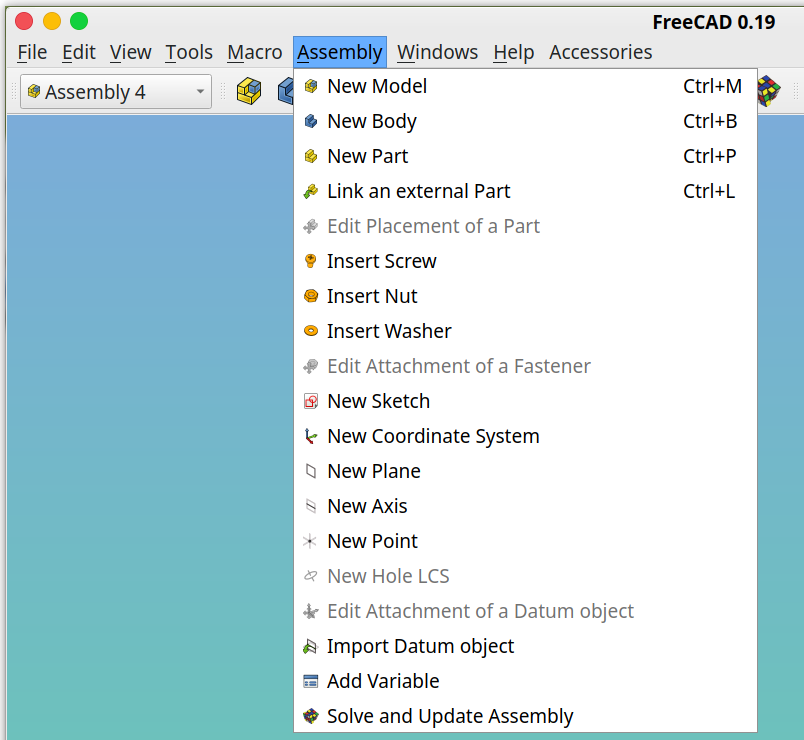
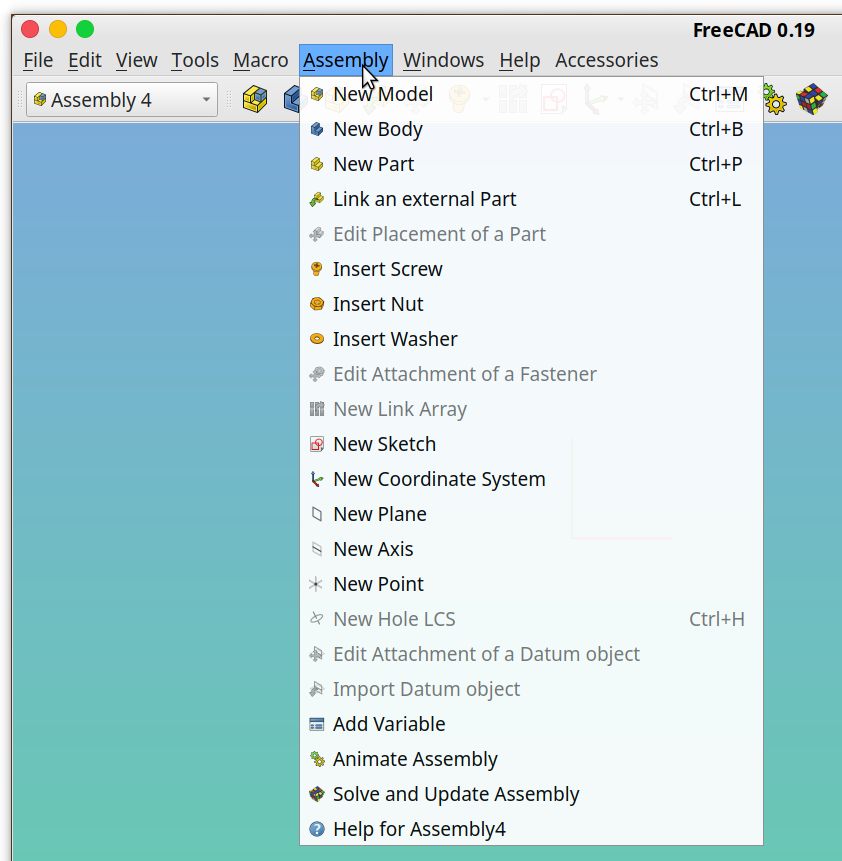
Documentation update

Changed region(s): [[0.0, 0.0, 1.0, 1.0]]

diff --git a/InitGui.py b/InitGui.py
@@ -92,19 +92,22 @@ class Assembly4_WorkBench(Workbench):
         import newLinkArray        # creates a new array of App::Link
         import HelpCmd             # shows a basic help window
         
-        if self.checkWorkbench('FastenersWorkbench'):
-            import FastenersLib        # a library to handle fasteners from the FastenersWorkbench
-            fastenersCmd = 'Asm4_Fasteners'
-        else:
-            import FastenersDummy      # a dummy library if the FastenersWorkbench is not installed
-            fastenersCmd = 'Asm4_insertScrew'
-
-        
+        # defines the drop-down button for Fasteners:
         insertFastenerList = [  'Asm4_insertScrew', 
                                 'Asm4_insertNut', 
                                 'Asm4_insertWasher', 
                                 'Asm4_placeFastener' ]
         Gui.addCommand( 'Asm4_Fasteners', dropDownCmdGroup( insertFastenerList, 'Insert Fastener'))
+        # check whether the Fasteners workbench is installed
+        if self.checkWorkbench('FastenersWorkbench'):
+            # a library to handle fasteners from the FastenersWorkbench
+            import FastenersLib
+            fastenersCmd = 'Asm4_Fasteners'
+        else:
+            # a dummy library if the FastenersWorkbench is not installed
+            import FastenersDummy
+            fastenersCmd = 'Asm4_insertScrew'
+
         # defines the drop-down button for Datum objects
         createDatumList = [     'Asm4_newLCS', 
                                 'Asm4_newPlane', 
@@ -112,6 +115,7 @@ class Assembly4_WorkBench(Workbench):
                                 'Asm4_newPoint', 
                                 'Asm4_newHole' ]
         Gui.addCommand( 'Asm4_createDatum', dropDownCmdGroup( createDatumList, 'Create Datum Object'))
+
         # list of all commands (use ?)
         self.listCmd =        [ "Asm4_newModel",   
                                 "Asm4_newBody", 
@@ -147,9 +151,9 @@ class Assembly4_WorkBench(Workbench):
                                 "Asm4_importDatum", 
                                 "Asm4_addVariable", 
                                 "Asm4_Animate", 
-                                "Asm4_updateAssembly",
-                                "Asm4_Help"]
+                                "Asm4_updateAssembly"]
         self.appendMenu("&Assembly",self.itemsMenu)
+        # append the Asm4_Help command to the standard FreeCAD Help menu
         self.appendMenu("&Help", ["Asm4_Help"])
         # commands to appear in the Assembly4 toolbar
         self.itemsToolbar =   [ "Asm4_newModel",   
@@ -189,7 +193,6 @@ class Assembly4_WorkBench(Workbench):
         #self.appendMenu(["&Edit","DynamicData"],self.list) # appends a submenu to an existing menu
 
 
-
     """
     +-----------------------------------------------+
     |               helper functions                |
@@ -205,13 +208,13 @@ class Assembly4_WorkBench(Workbench):
         return hasWB
 
 
-
     """
     +-----------------------------------------------+
     |          Standard necessary functions         |
     +-----------------------------------------------+
     """
     def Activated(self):
+        """
         from PySide import QtGui, QtCore
         "This function is executed when the workbench is activated"
         # Set the drop-down button for the Configurations in text mode 
@@ -224,6 +227,7 @@ class Assembly4_WorkBench(Workbench):
                 for button in toolbar.children():
                     if button.isWidgetType() and button.text()=='Configurations':
                         button.setToolButtonStyle( QtCore.Qt.ToolButtonTextOnly )
+        """
         return
 
 
@@ -251,7 +255,6 @@ class Assembly4_WorkBench(Workbench):
     +-----------------------------------------------+
 """
 wb = Assembly4_WorkBench()
-#print("Loading Assembly 4 WorkBench. \xa9 Zoltan Hubert")
 Gui.addWorkbench(wb)
 
 

diff --git a/INSTRUCTIONS.md b/INSTRUCTIONS.md
@@ -58,56 +58,56 @@ All Assembly4 children have these 4 properties; these are the first places to ch
 
 ## Usage
 
-Assembly4 commands are accessible from the Assembly meny or the Assembly4 toolbar.
-
-### Menu
-
-Commands in the menu and the toolbar are activated with relevant selection. If a command you want to use is inactive try to change the selection (with the mouse).
-
-![](Resources/media/Asm4_Menu.png)
+Assembly4 commands are accessible from the Assembly menu or the Assembly4 toolbar.
 
 
 ### Toolbar
 
-These functions are also accessible with the Assembly toolbar:
-
+Commands are activated with relevant selection. If a command is inactive (grayed oit) it's because something is selected to which that function doesn't apply.
 
 ![](Resources/media/Asm4_Toolbar.png)
 
+### Menu
 
-* ![](Resources/icons/Asm4_Model.svg) : **New Model** : creates an Assembly4 Model, which is a FreeCAD App::Part called Model and with some extra additions. One document can only contain one Assembly4 Model.
+These functions are also accessible from the Assembly menu:
 
-* ![](Resources/icons/Asm4_Body.svg) : **New Body** : creates FreeCAD PartDesign::Body in an Assembly4 Model or in an App::Part. This Body can then be used with FreeCAD's PartDesign workbench.
+![](Resources/media/Asm4_Menu.png)
 
-* ![](Resources/icons/Asm4_Part.svg) : **New Part** : creates FreeCAD App::Part in the current document. A document can contain many parts.
+### Assembly4 commands
 
-* ![](Resources/icons/Link_Part.svg) : **Insert an External Part** : creates a FreeCAD App::Link to an App::Part in another document. Only parts from documents already saved to disk can be used. If there are multiple parts in a document, they can be selected individually. A part can be inserted (linked) many times, but each instance must have a unique name in the assembly tree. If a name already attribuated is given again, FreeCAD will automatically give it a unique (and probably un-user-friendly) name.
+* ![](Resources/icons/Asm4_Model.svg) : **New Model** : creates an Assembly4 *Model*, which is a FreeCAD `App::Part` called *Model* and with some extra additions. This can be used to design a stand-alone part or be the container for an assembly. One document can only contain one Assembly4 Model.
 
-* ![](Resources/icons/Place_Link.svg) : **Place Link** : this places a linked part in the assembly to its intended position. This attaches an LCS in the linked part to another LCS in the assembly (called target LCS). This target LCS can be either in the assembly itself (in the Model) or in a sister part already linked. In this case, only LCS at the root of the linked part can be used, and not LCS inside a Body (for example) in the linked part.
+* ![](Resources/icons/Asm4_Body.svg) : **New Body** : creates FreeCAD `PartDesign::Body` in the selected `App::Part`. This Body can then be used with FreeCAD's PartDesign workbench. If you create such a `PartDesign::Body` with the PartDesign workbench, it will be placed at the root of the document, outside any `App::Part`.
 
-* ![](Resources/icons/Asm4_Screw.svg) : **Fasteners dropdown** : Allows to insert screws, nuts and washers from the Fasteners Workbench, and allows to attach them to Assembly4 datum objects, primarily coordinate systems (LCS). If the Fasteners Workbench is not installed, these features are disabled. To install the Fasteners Workbench, go to the menu **Tools > Addon Manager > fateners**
+* ![](Resources/icons/Asm4_Part.svg) : **New Part** : creates FreeCAD `App::Part` in the current document and allows to give it a name. A document can contain many parts.
 
-    * ![](Resources/icons/Asm4_Screw.svg) : **Insert Screw** : creates a normed screw from the Fasteners Workbench. The type of screw, diameter and length can be changed in the properties window of the screw.
+* ![](Resources/icons/Link_Part.svg) : **Link to a Part** : creates a FreeCAD `App::Link` to an `App::Part`. Only parts from documents already open in the session and saved to disk can be used. If there are multiple parts in a document, they can be selected individually. A part can be inserted (linked) many times, but each instance must have a unique name in the assembly tree. If a name already attribuated is given again, FreeCAD will automatically give it a unique (and probably un-user-friendly) name.
 
-    * ![](Resources/icons/Asm4_Nut.svg) : **Insert Nut** : creates a normed nut from the Fasteners Workbench. The type of nut, diameter and length can be changed in the properties window of the nut.
+* ![](Resources/icons/Place_Link.svg) : **Place Link** : this positions the child instance of a linked part in the current host assembly. This attaches an LCS in the linked part to a target LCS in the assembly. This target LCS can be either in the assembly itself (in the *Model*) or in a sister part already linked. In this case, it is important to note that only LCS at the root of the linked part can be used.
 
-    * ![](Resources/icons/Asm4_Washer.svg) : **Insert Washer** : creates a normed washer from the Fasteners Workbench. The type of washer and its diameter can be changed in the properties window of the washer.
+* ![](Resources/icons/Asm4_Screw.svg) : **Fasteners dropdown** : Allows to insert industry standard screws, nuts and washers from the **Fasteners Workbench** library, and allows to attach them to Assembly4 datum objects, primarily coordinate systems (LCS). These features are only available if the the Fasteners Workbench is installed. The Fasteners Workbench can be installed like Assembly4 through FreeCAD's addon manager: menu **Tools > Addon Manager > fasteners**
+
+    * ![](Resources/icons/Asm4_Screw.svg) : **Insert Screw** : creates a normed screw from the Fasteners Workbench. The type of screw, diameter and length can be changed in the properties window of the screw after creation.
+
+    * ![](Resources/icons/Asm4_Nut.svg) : **Insert Nut** : creates a normed nut from the Fasteners Workbench. The type of nut, diameter and length can be changed in the properties window of the nut after creation.
+
+    * ![](Resources/icons/Asm4_Washer.svg) : **Insert Washer** : creates a normed washer from the Fasteners Workbench. The type of washer and its diameter can be changed in the properties window of the washer after creation.
 
     * ![](Resources/icons/Asm4_mvFastener.svg) : **Edit attachment of Fastener** : allows to attach an object from the Fasteners Workbench — screw, nut or washer — to a datum object in the assembly or a sister part, in the regular Assembly4 manner.
 
-* ![](Resources/icons/Asm4_Sketch.svg) : **New Sketch** : creates FreeCAD Sketch in an App::Part (and thus also in Assembly4 Models). This Sketch is unattached, to attach it to an object edit its MapMode in its Placement Property
+* ![](Resources/icons/Asm4_Sketch.svg) : **New Sketch** : creates FreeCAD Sketch in an `App::Part` (and thus also in Assembly4 Models). After creation the attachment dialog opens and allows to attach this Sketch.
 
 * ![](Resources/icons/Asm4_AxisCross.svg) : **New Datum** : this is a drop-down combined menu grouping the creation of all Datum objects:
 
-	* ![](Resources/icons/Asm4_AxisCross.svg) : **New LCS** : creates FreeCAD PartDesign::CoordinateSystem in an App::Part (and thus also in Assembly4 Models). This LCS is unattached, to attach it to an object edit its MapMode in its Placement Property
+	* ![](Resources/icons/Asm4_AxisCross.svg) : **New LCS** : creates `PartDesign::CoordinateSystem` in an `App::Part` (and thus also in Assembly4 Models). This LCS is unattached, to attach it to an object edit its MapMode in its Placement Property
 
-	* ![](Resources/icons/Asm4_Plane.svg) : **New Datum Plane** : creates FreeCAD PartDesign::Plane
+	* ![](Resources/icons/Asm4_Plane.svg) : **New Datum Plane** : creates a datum `PartDesign::Plane`
 
-	* ![](Resources/icons/Asm4_Axis.svg) : **New Datum Axis** : creates FreeCAD PartDesign::Line
+	* ![](Resources/icons/Asm4_Axis.svg) : **New Datum Axis** : creates a datum `PartDesign::Line`
 
-	* ![](Resources/icons/Asm4_Point.svg) : **New Datum Point** : creates FreeCAD PartDesign::Point
+	* ![](Resources/icons/Asm4_Point.svg) : **New Datum Point** : creates a datum `PartDesign::Point`
 
-	* ![](Resources/icons/Asm4_Hole.svg) : **New Hole LCS** : creates FreeCAD PartDesign::CoordinateSystem in an App::Part (and thus also in Assembly4 Models) at the center of te selected circular edge. This is therefore only active when a (single) circular edge is selected. This PartDesign::CoordinateSystem is attached to the center of the circle, and is intended to serve as attachment LCS for fasteners.  This is the combined function of creating an LCS and attaching it (via MapMode) to a circular edge, and is provided to streamline the workflow.
+	* ![](Resources/icons/Asm4_Hole.svg) : **New Hole LCS** : creates datum `PartDesign::CoordinateSystem` in an `App::Part` (and thus also in Assembly4 Models) at the center of te selected circular edge. This is therefore only active when a (single) circular edge is selected. This `PartDesign::CoordinateSystem` is attached to the center of the circle, and is intended to serve as attachment LCS for fasteners.  This is the combined function of creating an LCS and attaching it (via MapMode) to a circular edge, and is provided to streamline the workflow.
 
 * ![](Resources/icons/Place_Datum.svg) : **Place Datum** : this attaches an existing Datum object in the assembly to another existing Datum object in a linked part. Datum objects of different types can be attached. 
 
@@ -115,11 +115,18 @@ These functions are also accessible with the Assembly toolbar:
 
 * ![](Resources/icons/Asm4_Variables.svg) : **Add Variable** : this adds a variable to the `Variables` object in the Model. These variables can be used in any parameter of the document by entering `Variables.Height` or `Variables.Length` (for example). This is especially useful for assemblies built in a single file, where several parts can be built using the same dimensions. Modifying a variable is done in the `Properties` window of the `Variables` object.
 
-* ![](Resources/icons/Solver.svg) : **Solve constraints and update assembly** : this recomputes all the links and all the placements in the assembly
+* ![](Resources/icons/Asm4_GearsAnimate.svg) : **Animate Assembly** : allows to select one of the variables from the `Variables` object and sweep it between two values. All parameters of the assembly that are set by this variable will be updated. 
+
+* ![](Resources/icons/Asm4_Solver.svg) : **Solve constraints and update assembly** : this recomputes all the links and all the placements in the assembly
 
 
 
 ## Workflow
+
+Some general purpose 3D CAD systems propose a workflow based on finished parts that are assembled into an assembly, and their position in that assembly is determined by constraints imposed on geometrical features present in the parts: holes, edges, faces... While this is quite easy to understand for beginners, it poses some limits on advanced users who need to modify the parts that are already inserted into an assembly. For example, if a part is placed using some geometrical feature, and that feature is later modified during the design process, the assembly solver might not be able to find the original constraint because the geometrical feature on which it was based has disappeared, and will throw an error. This can be a very difficult problem to solve, and is due to the dreaded *topological naming* issue. 
+
+Therefore, this is not the workflow used in Assembly 4, and instead Assembly 4 uses the principle of a **master sketch** : at the root of the assembly, *i.e.* in the Assembly 4 *Model*, one — or more — sketches are drawn that represent the "skeleton" of the assembly. This skeleton matches the functionalities of the assembly, and holds elements such as points and lines at characteristical positions of the assembly: rotational axes, fixation points, translation axes, beam directions... Furthermore, local coordinate systems — technically these are `PartDesign::CoordinateSystem` type objects and are called **LCS** in Assembly 4 — are placed on these characteristical points. The same principle — local coordinate systems are created in characteristical locations — is also applied in the design process of parts. Thus, the local coordinate systems in the parts can be matched to local coordinate systems in the assembly, guaranteeing that the part is positioned in the assembly at its intended position.
+
 
 
 ### Part

diff --git a/Examples/Tutorial1/TUTORIAL1.md b/Examples/Tutorial1/TUTORIAL1.md
@@ -12,7 +12,7 @@ This tutorial will walk you through to build the following assembly:
 
 ### Prerequisites
 
-It is assumed that you have read the [Assembly4 instructions](https://github.com/Zolko-123/FreeCAD_Assembly4/blob/master/INSTRUCTIONS.md) and that the Assembly4 workbench has been previously installed. It is also assumed that you have basic knowledge of FreeCAD, especially the _PartDesign_ workbench.
+It is assumed that you have read the [Assembly4 instructions](../../INSTRUCTIONS.md) and that the Assembly4 workbench has been previously installed. It is also assumed that you have basic knowledge of FreeCAD, especially the _PartDesign_ workbench.
 
 Download the STEP file [`bearing_20x37x9.stp`](bearing_20x37x9.stp ) (direct link to [`bearing_20x37x9.stp`](https://github.com/Zolko-123/FreeCAD_Assembly4/raw/master/Examples/Tutorial1/bearing_20x37x9.stp), right-click and save the file) to your local hard drive. 
 
